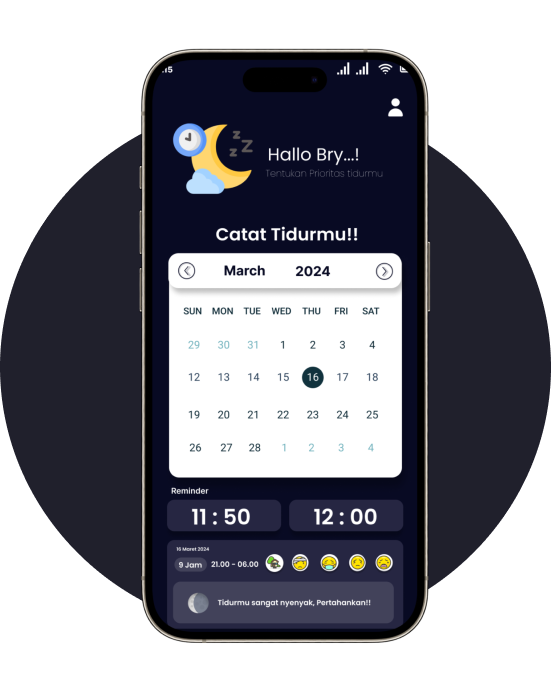
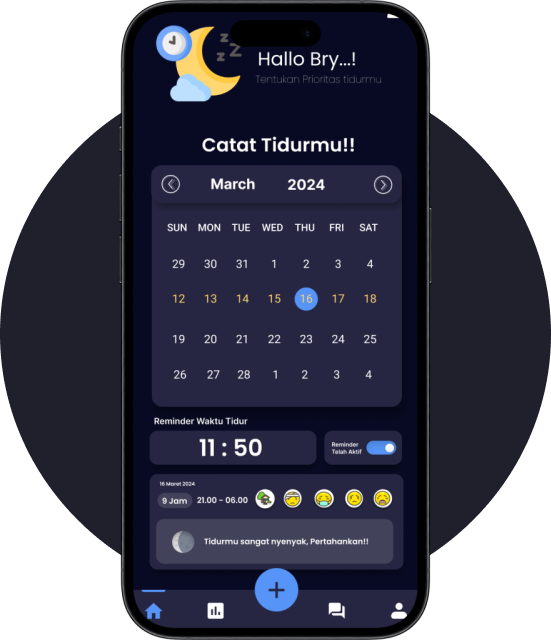
font and asset image change

diff --git a/app/layout.tsx b/app/layout.tsx
@@ -1,16 +1,13 @@
 import type { Metadata } from 'next';
-import { Inter } from 'next/font/google';
 import './globals.css';
 
 // Mantine import
 import '@mantine/core/styles.css';
 import '@mantine/carousel/styles.css';
-import { ColorSchemeScript, MantineProvider, createTheme, MantineColorsTuple } from '@mantine/core';
+import { ColorSchemeScript, MantineProvider, createTheme } from '@mantine/core';
 
 // Components import
 import { LandingPageAppShell } from '@/components/landing_page_layout/app-shell';
-
-const inter = Inter({ subsets: ['latin'] });
 
 const theme = createTheme({
   primaryColor: 'primary-white',
@@ -34,9 +31,10 @@ export default function RootLayout({
   return (
     <html lang='en'>
       <head>
+        <link rel="stylesheet" href="https://fonts.googleapis.com/css2?family=Poppins:wght@400;700&display=swap" />
         <ColorSchemeScript />
       </head>
-      <body className={`${inter.className} bg-background`}>
+      <body className="bg-background font-poppins">
         <MantineProvider
           theme={theme}
           forceColorScheme='dark'

diff --git a/components/landing_page_layout/sections/features-section.tsx b/components/landing_page_layout/sections/features-section.tsx
@@ -44,7 +44,7 @@ const FeaturesSection = () => {
           <div className='flex justify-center mb-10'>
             <div className='w-96 text-center'>
               <h3 className='text-3xl font-bold mb-2'>Features SleepDiary</h3>
-              <p className='text-lg'>Dengan SleepDaily , Anda dapat megetahui pola tidur Anda dengan efektif dan efisien</p>
+              <p className='text-lg'>Dengan SleepDiary , Anda dapat megetahui pola tidur Anda dengan efektif dan efisien</p>
             </div>
           </div>
         </motion.div>

diff --git a/app/globals.css b/app/globals.css
@@ -1,3 +1,4 @@
+/* styles/globals.css */
 @tailwind base;
 @tailwind components;
 @tailwind utilities;
@@ -19,4 +20,8 @@
   .shadow-card {
     box-shadow: rgba(0, 0, 0, 0.35) 0px 10px 15px;
   }
+}
+
+body {
+  @apply font-poppins;
 }

diff --git a/tailwind.config.ts b/tailwind.config.ts
@@ -12,6 +12,9 @@ const config: Config = {
         background: '#191A19',
         card: '#161618',
       },
+      fontFamily: {
+        poppins: ['Poppins', 'sans-serif'],
+      },
     },
   },
   plugins: [],

diff --git a/components/landing_page_layout/sections/faq-section.tsx b/components/landing_page_layout/sections/faq-section.tsx
@@ -1,0 +1,9 @@
+import React from 'react'
+
+const FAQSection = () => {
+ return (
+    <div>faq-section</div>
+  )
+}
+
+export default FAQSection
